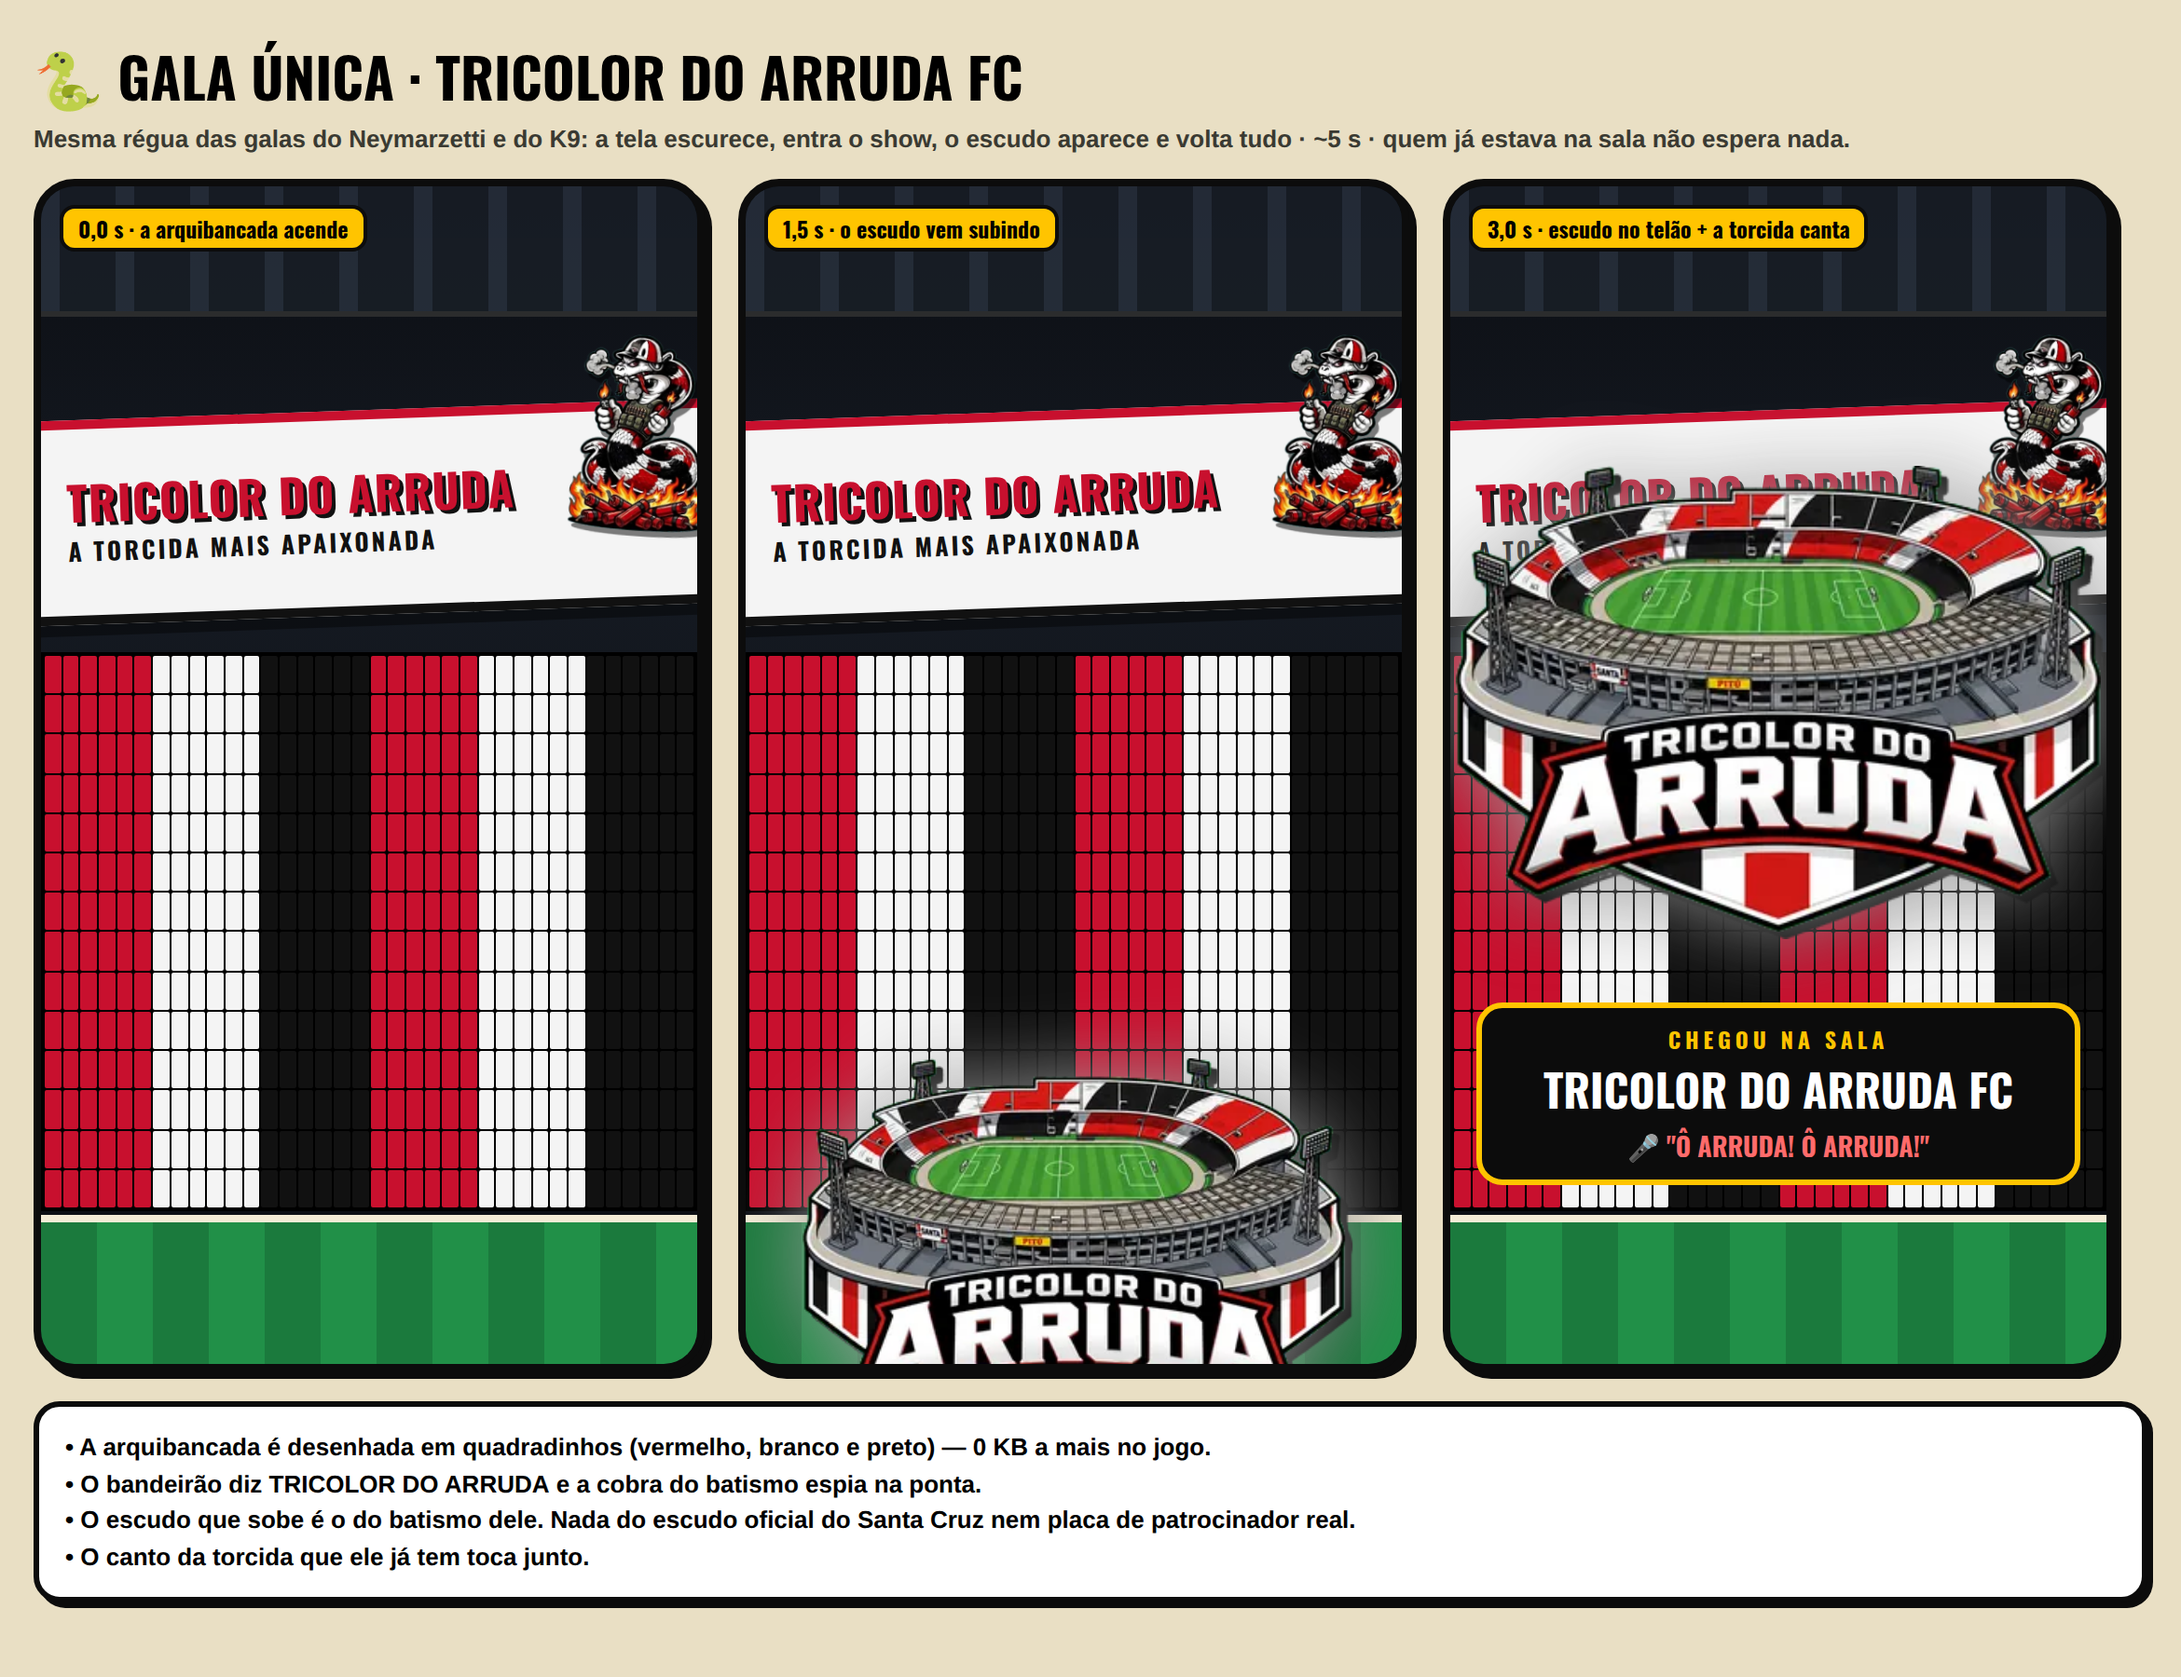
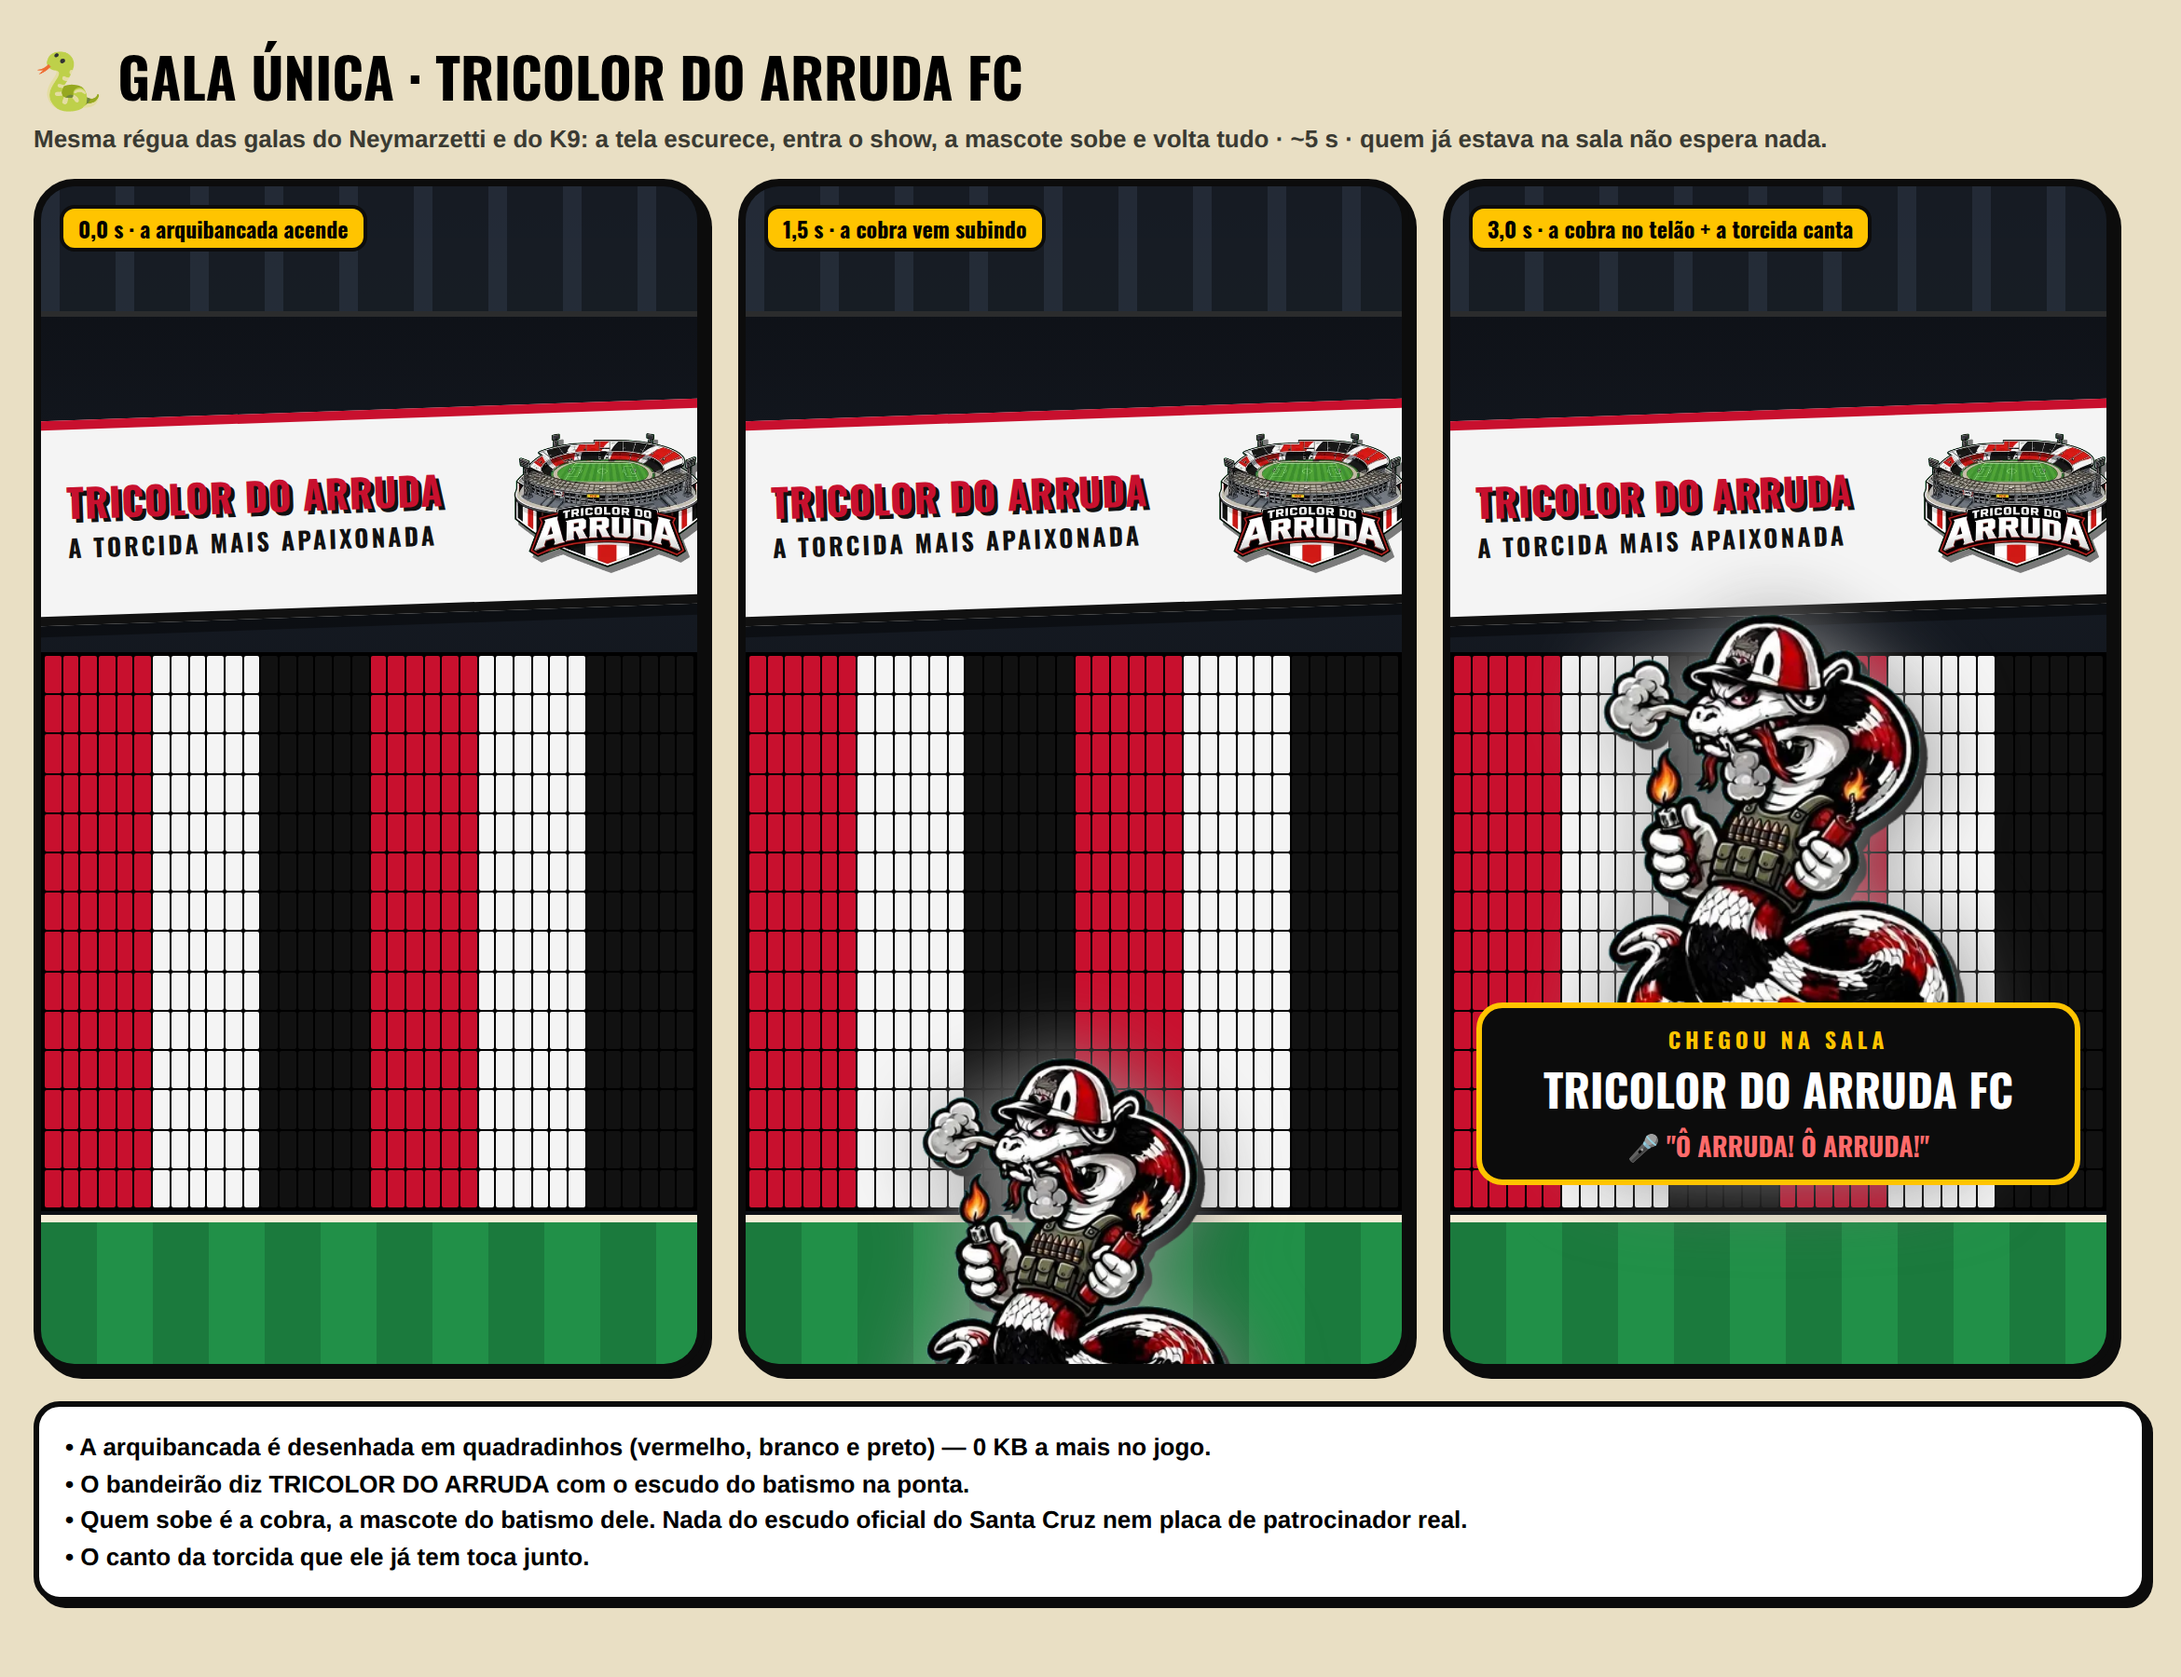
Mockup gala Arruda: a cobra (mascote) é quem sobe; o escudo fica no bandeirão
Claude-Session: https://claude.ai/code/session_018Ap1zPCMVL9XeZJN3u93ZA

diff --git a/docs/pendencias.md b/docs/pendencias.md
@@ -1,5 +1,5 @@
 ## 🐍 Tricolor do Arruda FC virou 🖋 FUNDADOR (14/10) — banco feito
-souzact12 (Geovany, coração Santa Cruz, mascote cobra_arruda): `esc_compras_batismo` = plus. Já tinha fundador nº43 e o canto. ⏳ Falta a GALA ÚNICA — mockup da arquibancada com bandeirão + escudo subindo (pedido do próprio Geovany) em `scripts/mockup-gala-arruda.mjs` → `scripts/mockups/gala-arruda.png`, esperando OK e decidir se o clube sobe pra Série A (o Fundador promete aparecer nas salas online dos outros).
+souzact12 (Geovany, coração Santa Cruz, mascote cobra_arruda): `esc_compras_batismo` = plus. Já tinha fundador nº43 e o canto. ⏳ Falta a GALA ÚNICA — mockup da arquibancada (faixas retas) com o ESCUDO no bandeirão e a COBRA (mascote) subindo — Diego corrigiu: "o mascote é que chega subindo" em `scripts/mockup-gala-arruda.mjs` → `scripts/mockups/gala-arruda.png`, esperando OK e decidir se o clube sobe pra Série A (o Fundador promete aparecer nas salas online dos outros).
 
 ## 🛒 Loja (14/10, tarde) — ✅ NO AR
 Gala única avulsa SAIU (custava o mesmo que subir pro Fundador, que traz tudo); fica 📣 canto avulso R$ 10 + dica "a gala vem no Fundador". Salas extras só aparecem pra quem NÃO cria à vontade (grátis/Craque novo).
